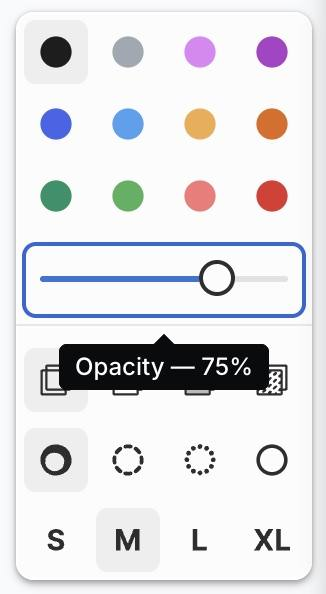
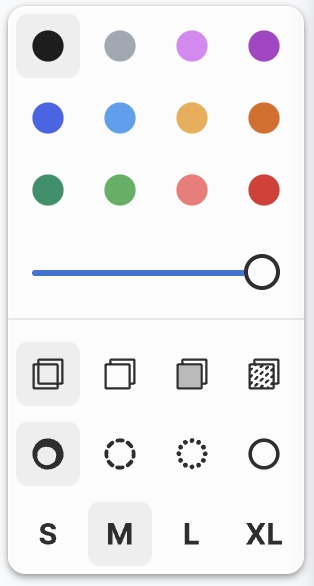
Swap tldraw style panel image (no tooltip) on Steve's page and the homepage board

diff --git a/index.html b/index.html
@@ -35,7 +35,7 @@
   </header>
   <div id="page"></div>
   <div class="peek" id="peek" aria-hidden="true"></div>
-  <script>window.CC={"interviews": [{"url": "interviews/steve-ruiz/", "slug": "steve-ruiz", "name": "Steve Ruiz", "headline": "The painter who built the canvas", "role": "Founder", "company": "tldraw", "date": "Oct 2026", "quote": "No one cares about your paintings. It’s up to you to share your work."}, {"url": "interviews/mihika-kapoor/", "slug": "mihika-kapoor", "name": "Mihika Kapoor", "headline": "Simulation is human", "role": "Head of Product", "company": "Simile", "date": "Oct 2026", "quote": "You can distill pretty much any company into: figure out what to do, then do the thing."}, {"url": "interviews/adam-ho/", "slug": "adam-ho", "name": "Adam Ho", "headline": "Design as discography", "role": "Head of Design", "company": "fal", "date": "Oct 2026", "quote": "I treat the projects I do like a discography, the way an artist has albums on Spotify."}, {"url": "interviews/liz-dorman/", "slug": "liz-dorman", "name": "Liz Dorman", "headline": "Couture computing in hardware", "role": "Co-founder", "company": "Era", "date": "Oct 2026", "quote": "We want main character energy back."}, {"url": "interviews/colin-daymond-hanna/", "slug": "colin-daymond-hanna", "name": "Colin Daymond Hanna", "headline": "Creating light in the darkness", "role": "Co-founder", "company": "Earendil", "date": "Sep 2026", "quote": "Black and white focuses the mind on elements even more fundamental than what we see with our own eye."}, {"url": "interviews/noah-kerner/", "slug": "noah-kerner", "name": "Noah Kerner", "headline": "We all dream", "role": "CEO", "company": "Acorns", "date": "Aug 2026", "quote": "Nothing profound was built off of research in the classic sense."}, {"url": "interviews/diego-segura/", "slug": "diego-segura", "name": "Diego Segura", "headline": "Narrative before design", "role": "Founder, Creative Director", "company": "Family Office", "date": "Jul 2026", "quote": "Design is most valuable in spaces designers don't usually care to work in. The unsexy stuff."}, {"url": "interviews/quinten-farmer/", "slug": "quinten-farmer", "name": "Quinten Farmer", "headline": "Why a little alien is a good friend", "role": "Co-founder & CEO", "company": "Tolan", "date": "Jul 2026", "quote": "Today we call it a second self."}, {"url": "interviews/paul-jun/", "slug": "paul-jun", "name": "Paul Jun", "headline": "Form follows fantasy", "role": "Creative Director, Brand", "company": "Ramp", "date": "Jul 2026", "quote": "The real opportunity is when function and fantasy share a room."}, {"url": "interviews/ben-and-zubin-raindrop/", "slug": "ben-and-zubin-raindrop", "name": "Ben Hylak and Zubin Koticha", "headline": "Tsunami of capabilities", "role": "Co-founders", "company": "Raindrop", "date": "Jun 2026", "quote": "The most core part of taste is the nouns we have."}, {"url": "interviews/nir-zicherman/", "slug": "nir-zicherman", "name": "Nir Zicherman", "headline": "Building the generalized learning platform", "role": "Co-founder & CEO", "company": "Oboe", "date": "Jun 2026", "quote": "Not one of the platforms they regularly use was built to teach."}, {"url": "interviews/stephen-haney/", "slug": "stephen-haney", "name": "Stephen Haney", "headline": "Care that compounds", "role": "Founder & CEO", "company": "Paper", "date": "Jun 2026", "quote": "In design tools, the best product often wins."}, {"url": "interviews/dylan-babbs/", "slug": "dylan-babbs", "name": "Dylan Babbs", "headline": "Designing for trust in new categories", "role": "Co-founder", "company": "Profound", "date": "Jun 2026", "quote": "At the end of the day a company is just a group of people in a room."}]};window.PORTS={"steve-ruiz": "interviews/images/steve-ruiz.jpg?v=3", "mihika-kapoor": "interviews/images/mihika-kapoor.jpg", "adam-ho": "interviews/images/adam-ho.jpg", "liz-dorman": "interviews/images/liz-dorman.jpg", "colin-daymond-hanna": "interviews/images/colin-daymond-hanna.jpg", "noah-kerner": "interviews/images/noah-kerner.jpg", "diego-segura": "interviews/images/diego-segura.jpg", "quinten-farmer": "interviews/images/quinten-farmer.jpg", "paul-jun": "interviews/images/paul-jun.jpg", "ben-and-zubin-raindrop": "interviews/images/ben-hylak.jpg", "nir-zicherman": "interviews/images/nir-zicherman.jpg", "stephen-haney": "interviews/images/stephen-haney.jpg", "dylan-babbs": "interviews/images/dylan-babbs.jpg"};window.IMGS=[{"n": "18", "w": 360, "h": 640, "u": "./assets/board/18.jpg"}, {"n": "19", "w": 640, "h": 640, "u": "./assets/board/19.jpg"}, {"n": "m-sugimoto", "w": 640, "h": 512, "u": "./assets/board/m-sugimoto.jpg"}, {"n": "21", "w": 464, "h": 640, "u": "./assets/board/21.jpg"}, {"n": "m-martens", "w": 640, "h": 426, "u": "./assets/board/m-martens.jpg"}, {"n": "22", "w": 447, "h": 640, "u": "./assets/board/22.jpg"}, {"n": "23", "w": 498, "h": 640, "u": "./assets/board/23.jpg"}, {"n": "m-archigram", "w": 320, "h": 640, "u": "./assets/board/m-archigram.jpg"}, {"n": "24", "w": 621, "h": 640, "u": "./assets/board/24.jpg"}, {"n": "25", "w": 640, "h": 640, "u": "./assets/board/25.jpg"}, {"n": "m-hockney", "w": 640, "h": 624, "u": "./assets/board/m-hockney.jpg"}, {"n": "s-globs", "w": 640, "h": 455, "u": "./assets/board/s-globs.jpg"}, {"n": "28", "w": 452, "h": 640, "u": "./assets/board/28.jpg"}, {"n": "m-pnw", "w": 427, "h": 640, "u": "./assets/board/m-pnw.jpg"}, {"n": "29", "w": 500, "h": 400, "u": "./assets/board/29.jpg"}, {"n": "31", "w": 296, "h": 640, "u": "./assets/board/31.jpg"}, {"n": "m-crayon", "w": 476, "h": 640, "u": "./assets/board/m-crayon.jpg"}, {"n": "33", "w": 526, "h": 640, "u": "./assets/board/33.jpg"}, {"n": "34", "w": 512, "h": 640, "u": "./assets/board/34.jpg"}, {"n": "m-rand", "w": 424, "h": 640, "u": "./assets/board/m-rand.jpg"}, {"n": "s-tldraw-offline", "w": 640, "h": 413, "u": "./assets/board/s-tldraw-offline.jpg"}, {"n": "38", "w": 480, "h": 640, "u": "./assets/board/38.jpg"}, {"n": "m-guitar", "w": 430, "h": 640, "u": "./assets/board/m-guitar.jpg"}, {"n": "40", "w": 640, "h": 416, "u": "./assets/board/40.jpg"}, {"n": "41", "w": 640, "h": 368, "u": "./assets/board/41.jpg"}, {"n": "m-piano", "w": 427, "h": 640, "u": "./assets/board/m-piano.jpg"}, {"n": "s-style-panel", "w": 326, "h": 594, "u": "./assets/board/s-style-panel.jpg"}, {"n": "43", "w": 640, "h": 329, "u": "./assets/board/43.jpg"}, {"n": "m-backstage", "w": 640, "h": 640, "u": "./assets/board/m-backstage.jpg"}, {"n": "44", "w": 640, "h": 480, "u": "./assets/board/44.jpg"}, {"n": "45", "w": 640, "h": 434, "u": "./assets/board/45.jpg"}, {"n": "m-wave", "w": 640, "h": 438, "u": "./assets/board/m-wave.jpg"}, {"n": "47", "w": 640, "h": 534, "u": "./assets/board/47.jpg"}, {"n": "48", "w": 427, "h": 640, "u": "./assets/board/48.jpg"}, {"n": "m-subway", "w": 640, "h": 640, "u": "./assets/board/m-subway.jpg"}, {"n": "s-roman-road", "w": 438, "h": 640, "u": "./assets/board/s-roman-road.jpg"}, {"n": "50", "w": 480, "h": 640, "u": "./assets/board/50.jpg"}, {"n": "m-orangerie", "w": 480, "h": 640, "u": "./assets/board/m-orangerie.jpg"}, {"n": "51", "w": 640, "h": 399, "u": "./assets/board/51.jpg"}, {"n": "52", "w": 640, "h": 549, "u": "./assets/board/52.jpg"}, {"n": "m-turntable", "w": 513, "h": 640, "u": "./assets/board/m-turntable.jpg"}, {"n": "53", "w": 480, "h": 640, "u": "./assets/board/53.jpg"}, {"n": "54", "w": 432, "h": 640, "u": "./assets/board/54.jpg"}, {"n": "a-idea", "w": 640, "h": 426, "u": "./assets/board/a-idea.jpg"}, {"n": "s-negril-slides", "w": 438, "h": 640, "u": "./assets/board/s-negril-slides.jpg"}, {"n": "61", "w": 640, "h": 640, "u": "./assets/board/61.jpg"}, {"n": "a-gerstner", "w": 640, "h": 426, "u": "./assets/board/a-gerstner.jpg"}, {"n": "62", "w": 640, "h": 359, "u": "./assets/board/62.jpg"}, {"n": "s-money-tree", "w": 521, "h": 640, "u": "./assets/board/s-money-tree.jpg"}, {"n": "a-taxday", "w": 640, "h": 638, "u": "./assets/board/a-taxday.jpg"}, {"n": "64", "w": 458, "h": 640, "u": "./assets/board/64.jpg"}, {"n": "65", "w": 640, "h": 640, "u": "./assets/board/65.jpg"}, {"n": "a-stormking", "w": 640, "h": 554, "u": "./assets/board/a-stormking.jpg"}, {"n": "66", "w": 512, "h": 640, "u": "./assets/board/66.jpg"}, {"n": "71", "w": 297, "h": 355, "u": "./assets/board/71.jpg"}, {"n": "a-alice", "w": 518, "h": 640, "u": "./assets/board/a-alice.jpg"}, {"n": "72", "w": 640, "h": 636, "u": "./assets/board/72.jpg"}, {"n": "s-oh-god-oh-no", "w": 481, "h": 640, "u": "./assets/board/s-oh-god-oh-no.jpg"}, {"n": "a-klara", "w": 410, "h": 640, "u": "./assets/board/a-klara.jpg"}, {"n": "73", "w": 487, "h": 640, "u": "./assets/board/73.jpg"}];window.REFS={"18": {"slug": "noah-kerner", "q": "They knew the music they were going to play throughout the night, but I would come with ten crates of records and not know where I was going.", "cap": false}, "19": {"slug": "adam-ho", "q": "On brand design, we released this thing called gen media CLI (genmedia.sh).", "cap": false}, "21": {"slug": "quinten-farmer", "q": "Pixar and Disney - they’ve built characters that are appropriate for all ages and have great stories behind them.", "cap": false}, "22": {"slug": "paul-jun", "q": "Brand designers kept working in symbols, stories, typography, culture, and feeling.", "cap": false}, "23": {"slug": "diego-segura", "q": "A few weeks after my 18th birthday I flew to New York for the first time to visit Pentagram, Sagmeister & Walsh, and COLLINS in the same week.", "cap": false, "frag": "flew to New York for the first time"}, "24": {"slug": "steve-ruiz", "q": "I was a painter. Mostly beautiful landscapes…", "cap": false}, "25": {"slug": "liz-dorman", "q": "Liz Dorman owns more than a hundred old phones. There is a 1970s Bell telephone, a set of Barbie phones from the ’80s, Siemens handsets released in seasonal collections like clothing, and her prized piece: a hot pink Motorola Razr.", "cap": true, "frag": "There is a 1970s Bell telephone"}, "28": {"slug": "noah-kerner", "q": "I would spend a couple hours with Michael Lang, who started Woodstock, or Ahmet Ertegun, who founded Atlantic Records, or Richard Meier, the architect, or Tom Ford.", "cap": false}, "29": {"slug": "noah-kerner", "q": "My wife and I started an art organization called Give Kids Art, and the message is “Create Fearlessly.” The founding ethos is based on another quote, this one from Picasso: “Every child is born an artist.", "cap": false}, "31": {"slug": "liz-dorman", "q": "I really love Lego. It’s an incredible brand that enables so much creativity, at all scales.", "cap": false}, "33": {"slug": "liz-dorman", "q": "I think we will see dozens of computing device companies, all happily co-existing.", "cap": false}, "34": {"slug": "liz-dorman", "q": "I think we will see dozens of computing device companies, all happily co-existing.", "cap": false}, "38": {"slug": "colin-daymond-hanna", "q": "Ramiz has done a lot with the Tetris animation. We get millions of hits to that site per week, and at one point the animation was taking too long, so I took time to re-optimize it.", "cap": false}, "40": {"slug": "quinten-farmer", "q": "The third piece, around the same exploration time, was that we lucked into getting to know a really talented creative director, Lucas Zanotto, through my friend, Zach Klein.", "cap": false}, "41": {"slug": "liz-dorman", "q": "I care so much about Era creating spaces for people from all backgrounds to make this future world of computing together.", "cap": false}, "43": {"slug": "adam-ho", "q": "Somewhat unique to fal, we have a function called creative engineers, who create workflows for generative imaging.", "cap": false}, "44": {"slug": "diego-segura", "q": "If I could give any founder one piece of advice, it would be: write the thing in extreme detail first, then go talk to the designers.", "cap": false}, "45": {"slug": "quinten-farmer", "q": "Today we call it a second self. It’s personal AI, a little character designed to be an extension of you.", "cap": false}, "47": {"slug": "nir-zicherman", "q": "And yet those billions of people online clearly have things they’re intrinsically motivated to learn, because they keep going down rabbit holes.", "cap": false}, "48": {"slug": "paul-jun", "q": "At scale, every company desires the work to perform like a symphony. Eighty musicians can play different notes and still create one piece because they share a score.", "cap": false}, "50": {"slug": "adam-ho", "q": "GenMedia Conference tote, made at fal design lab with Hyunjung Lee. Nearly every element was made from scratch: custom-dyed light sage nylon, a custom 8mm cord, a fal logo silver carabiner.", "cap": true, "frag": "custom-dyed light sage nylon"}, "51": {"slug": "liz-dorman", "q": "Architecture is such a perfect metaphor for computing. We inhabit it every day, it influences how we think and connect, and it responds very quickly to the technological advancement enabling it.", "cap": false}, "52": {"slug": "adam-ho", "q": "There’s Karel Martens, a Dutch graphic designer. There’s Wang Zhihong, a brilliant Taiwanese graphic designer.", "cap": false}, "53": {"slug": "adam-ho", "q": "GenMedia Conference tote, made at fal design lab with Hyunjung Lee. Nearly every element was made from scratch: custom-dyed light sage nylon, a custom 8mm cord, a fal logo silver carabiner.", "cap": true, "frag": "custom-dyed light sage nylon"}, "54": {"slug": "liz-dorman", "q": "I particularly love Archigram and the Metabolists, avant-garde groups in the UK and Japan that imagined buildings as organisms: modular buildings that change and rotate based on the needs of the inhabitants, so you’d come back and the building would look different.", "cap": false}, "61": {"slug": "liz-dorman", "q": "Liz Dorman owns more than a hundred old phones. There is a 1970s Bell telephone, a set of Barbie phones from the ’80s, Siemens handsets released in seasonal collections like clothing, and her prized piece: a hot pink Motorola Razr.", "cap": true, "frag": "There is a 1970s Bell telephone"}, "62": {"slug": "mihika-kapoor", "q": "I also love large scale, so the Monet paintings in the Musée de l’Orangerie, which make you feel like a dot.", "cap": false}, "64": {"slug": "adam-ho", "q": "There’s a painter named Stanley Whitney. He’s a master of colors.", "cap": false}, "65": {"slug": "adam-ho", "q": "There’s a painter named Stanley Whitney. He’s a master of colors.", "cap": false}, "66": {"slug": "adam-ho", "q": "There’s a painter named Stanley Whitney. He’s a master of colors.", "cap": false}, "71": {"slug": "mihika-kapoor", "q": "So now we are hiring brand designers, motion animators, storytellers, pixel artists, you name it.", "cap": false}, "72": {"slug": "mihika-kapoor", "q": "So now we are hiring brand designers, motion animators, storytellers, pixel artists, you name it.", "cap": false}, "73": {"slug": "paul-jun", "q": "It’s like a video game finally getting a patch that everyone has been waiting for.", "cap": false}, "s-globs": {"slug": "steve-ruiz", "q": "A year of posting works-in-progress on Twitter led to a design tool I built named globs and an algorithm for freehand ink.", "cap": false}, "s-tldraw-offline": {"slug": "steve-ruiz", "q": "Then it turned into, let’s just build a canvas. Something like Figma’s canvas, but open source and on the web.", "cap": false}, "s-style-panel": {"slug": "steve-ruiz", "q": "What does good ink feel like? What do good arrows feel like?", "cap": false}, "s-roman-road": {"slug": "steve-ruiz", "q": "I was a painter. Mostly beautiful landscapes…", "cap": false}, "s-negril-slides": {"slug": "steve-ruiz", "q": "No one cares about your paintings. No one’s knocking on your door to ask about what you’re making.", "cap": false}, "s-money-tree": {"slug": "steve-ruiz", "q": "It’s up to you to share your work. Every serious artist has a marketing function, even if they’d never call it that.", "cap": false}, "s-oh-god-oh-no": {"slug": "steve-ruiz", "q": "You post in-progress work, a little detail of the thing. That’s a habit I brought into design, and then programming.", "cap": false}, "m-sugimoto": {"slug": "colin-daymond-hanna", "q": "The first landing page of our website was a black and white photograph of the ocean with a long horizon, inspired by the photographer Sugimoto.", "cap": false}, "m-martens": {"slug": "adam-ho", "q": "A lot of people see my work and say, “Your work reminds me of Karel Martens.” And it’s intentional.", "cap": false, "frag": "Your work reminds me of Karel Martens"}, "m-archigram": {"slug": "liz-dorman", "q": "Archigram explored control (forced behavior by unchangeable buildings) vs. choice (spaces made of modules that adapt to the needs of the inhabitants). Sounds familiar in this new Era?", "cap": true, "frag": "Archigram explored control"}, "m-hockney": {"slug": "mihika-kapoor", "q": "The artists I love most use excessive color. David Hockney, Matisse.", "cap": false}, "m-pnw": {"slug": "quinten-farmer", "q": "The Tolan lore is essentially built around the Pacific Northwest, an archipelago of small islands with a temperate climate.", "cap": false}, "m-crayon": {"slug": "noah-kerner", "q": "“Every child is born an artist. The problem is how to remain one as we grow up.”", "cap": false, "frag": "Every child is born an artist"}, "m-rand": {"slug": "paul-jun", "q": "In 1941, Bill Bernbach, a copywriter, met Paul Rand, an art director and designer, at the Weintraub agency in Manhattan.", "cap": false}, "m-guitar": {"slug": "stephen-haney", "q": "I play guitar, and I just found this hand maker, Hansen Guitars in Denmark.", "cap": false}, "m-piano": {"slug": "nir-zicherman", "q": "I grew up playing, especially piano.", "cap": false}, "m-backstage": {"slug": "diego-segura", "q": "Every week I’d be handed a stack of books across fashion and design to read and learn from.", "cap": false}, "m-wave": {"slug": "ben-and-zubin-raindrop", "q": "Tsunami of capabilities", "cap": true, "frag": "Tsunami of capabilities"}, "m-subway": {"slug": "dylan-babbs", "q": "Another interesting one, our subway ads — the imagery is all AI generated.", "cap": false, "frag": "our subway ads"}, "m-orangerie": {"slug": "mihika-kapoor", "q": "I also love large scale, so the Monet paintings in the Musée de l’Orangerie, which make you feel like a dot.", "cap": false}, "m-turntable": {"slug": "noah-kerner", "q": "Noah Kerner is a New Yorker who started Give Kids Art, an art nonprofit for underserved children, used to DJ for celebrities like Jennifer Lopez.", "cap": true, "frag": "used to DJ for celebrities"}, "a-idea": {"slug": "adam-ho", "q": "I have eight of his books behind me.", "cap": false}, "a-gerstner": {"slug": "adam-ho", "q": "And Karl Gerstner, a Swiss design practitioner and an early pioneer of systematic design.", "cap": false}, "a-taxday": {"slug": "diego-segura", "q": "Terms-Eccles, his platform covering capital and culture, which also hosts an annual Tax Day party.", "cap": true, "frag": "which also hosts an annual Tax Day party"}, "a-stormking": {"slug": "diego-segura", "q": "COLLINS crew at Storm King, 2019", "cap": true, "frag": "COLLINS crew at Storm King"}, "a-alice": {"slug": "mihika-kapoor", "q": "And I love absurdism, so Alice in Wonderland has been very influential.", "cap": false}, "a-klara": {"slug": "quinten-farmer", "q": "One favorite is Klara and the Sun, which I highly recommend.", "cap": false, "frag": "One favorite is Klara and the Sun"}};</script>
+  <script>window.CC={"interviews": [{"url": "interviews/steve-ruiz/", "slug": "steve-ruiz", "name": "Steve Ruiz", "headline": "The painter who built the canvas", "role": "Founder", "company": "tldraw", "date": "Oct 2026", "quote": "No one cares about your paintings. It’s up to you to share your work."}, {"url": "interviews/mihika-kapoor/", "slug": "mihika-kapoor", "name": "Mihika Kapoor", "headline": "Simulation is human", "role": "Head of Product", "company": "Simile", "date": "Oct 2026", "quote": "You can distill pretty much any company into: figure out what to do, then do the thing."}, {"url": "interviews/adam-ho/", "slug": "adam-ho", "name": "Adam Ho", "headline": "Design as discography", "role": "Head of Design", "company": "fal", "date": "Oct 2026", "quote": "I treat the projects I do like a discography, the way an artist has albums on Spotify."}, {"url": "interviews/liz-dorman/", "slug": "liz-dorman", "name": "Liz Dorman", "headline": "Couture computing in hardware", "role": "Co-founder", "company": "Era", "date": "Oct 2026", "quote": "We want main character energy back."}, {"url": "interviews/colin-daymond-hanna/", "slug": "colin-daymond-hanna", "name": "Colin Daymond Hanna", "headline": "Creating light in the darkness", "role": "Co-founder", "company": "Earendil", "date": "Sep 2026", "quote": "Black and white focuses the mind on elements even more fundamental than what we see with our own eye."}, {"url": "interviews/noah-kerner/", "slug": "noah-kerner", "name": "Noah Kerner", "headline": "We all dream", "role": "CEO", "company": "Acorns", "date": "Aug 2026", "quote": "Nothing profound was built off of research in the classic sense."}, {"url": "interviews/diego-segura/", "slug": "diego-segura", "name": "Diego Segura", "headline": "Narrative before design", "role": "Founder, Creative Director", "company": "Family Office", "date": "Jul 2026", "quote": "Design is most valuable in spaces designers don't usually care to work in. The unsexy stuff."}, {"url": "interviews/quinten-farmer/", "slug": "quinten-farmer", "name": "Quinten Farmer", "headline": "Why a little alien is a good friend", "role": "Co-founder & CEO", "company": "Tolan", "date": "Jul 2026", "quote": "Today we call it a second self."}, {"url": "interviews/paul-jun/", "slug": "paul-jun", "name": "Paul Jun", "headline": "Form follows fantasy", "role": "Creative Director, Brand", "company": "Ramp", "date": "Jul 2026", "quote": "The real opportunity is when function and fantasy share a room."}, {"url": "interviews/ben-and-zubin-raindrop/", "slug": "ben-and-zubin-raindrop", "name": "Ben Hylak and Zubin Koticha", "headline": "Tsunami of capabilities", "role": "Co-founders", "company": "Raindrop", "date": "Jun 2026", "quote": "The most core part of taste is the nouns we have."}, {"url": "interviews/nir-zicherman/", "slug": "nir-zicherman", "name": "Nir Zicherman", "headline": "Building the generalized learning platform", "role": "Co-founder & CEO", "company": "Oboe", "date": "Jun 2026", "quote": "Not one of the platforms they regularly use was built to teach."}, {"url": "interviews/stephen-haney/", "slug": "stephen-haney", "name": "Stephen Haney", "headline": "Care that compounds", "role": "Founder & CEO", "company": "Paper", "date": "Jun 2026", "quote": "In design tools, the best product often wins."}, {"url": "interviews/dylan-babbs/", "slug": "dylan-babbs", "name": "Dylan Babbs", "headline": "Designing for trust in new categories", "role": "Co-founder", "company": "Profound", "date": "Jun 2026", "quote": "At the end of the day a company is just a group of people in a room."}]};window.PORTS={"steve-ruiz": "interviews/images/steve-ruiz.jpg?v=3", "mihika-kapoor": "interviews/images/mihika-kapoor.jpg", "adam-ho": "interviews/images/adam-ho.jpg", "liz-dorman": "interviews/images/liz-dorman.jpg", "colin-daymond-hanna": "interviews/images/colin-daymond-hanna.jpg", "noah-kerner": "interviews/images/noah-kerner.jpg", "diego-segura": "interviews/images/diego-segura.jpg", "quinten-farmer": "interviews/images/quinten-farmer.jpg", "paul-jun": "interviews/images/paul-jun.jpg", "ben-and-zubin-raindrop": "interviews/images/ben-hylak.jpg", "nir-zicherman": "interviews/images/nir-zicherman.jpg", "stephen-haney": "interviews/images/stephen-haney.jpg", "dylan-babbs": "interviews/images/dylan-babbs.jpg"};window.IMGS=[{"n": "18", "w": 360, "h": 640, "u": "./assets/board/18.jpg"}, {"n": "19", "w": 640, "h": 640, "u": "./assets/board/19.jpg"}, {"n": "m-sugimoto", "w": 640, "h": 512, "u": "./assets/board/m-sugimoto.jpg"}, {"n": "21", "w": 464, "h": 640, "u": "./assets/board/21.jpg"}, {"n": "m-martens", "w": 640, "h": 426, "u": "./assets/board/m-martens.jpg"}, {"n": "22", "w": 447, "h": 640, "u": "./assets/board/22.jpg"}, {"n": "23", "w": 498, "h": 640, "u": "./assets/board/23.jpg"}, {"n": "m-archigram", "w": 320, "h": 640, "u": "./assets/board/m-archigram.jpg"}, {"n": "24", "w": 621, "h": 640, "u": "./assets/board/24.jpg"}, {"n": "25", "w": 640, "h": 640, "u": "./assets/board/25.jpg"}, {"n": "m-hockney", "w": 640, "h": 624, "u": "./assets/board/m-hockney.jpg"}, {"n": "s-globs", "w": 640, "h": 455, "u": "./assets/board/s-globs.jpg"}, {"n": "28", "w": 452, "h": 640, "u": "./assets/board/28.jpg"}, {"n": "m-pnw", "w": 427, "h": 640, "u": "./assets/board/m-pnw.jpg"}, {"n": "29", "w": 500, "h": 400, "u": "./assets/board/29.jpg"}, {"n": "31", "w": 296, "h": 640, "u": "./assets/board/31.jpg"}, {"n": "m-crayon", "w": 476, "h": 640, "u": "./assets/board/m-crayon.jpg"}, {"n": "33", "w": 526, "h": 640, "u": "./assets/board/33.jpg"}, {"n": "34", "w": 512, "h": 640, "u": "./assets/board/34.jpg"}, {"n": "m-rand", "w": 424, "h": 640, "u": "./assets/board/m-rand.jpg"}, {"n": "s-tldraw-offline", "w": 640, "h": 413, "u": "./assets/board/s-tldraw-offline.jpg"}, {"n": "38", "w": 480, "h": 640, "u": "./assets/board/38.jpg"}, {"n": "m-guitar", "w": 430, "h": 640, "u": "./assets/board/m-guitar.jpg"}, {"n": "40", "w": 640, "h": 416, "u": "./assets/board/40.jpg"}, {"n": "41", "w": 640, "h": 368, "u": "./assets/board/41.jpg"}, {"n": "m-piano", "w": 427, "h": 640, "u": "./assets/board/m-piano.jpg"}, {"n": "s-style-panel", "w": 314, "h": 586, "u": "./assets/board/s-style-panel.jpg?v=2"}, {"n": "43", "w": 640, "h": 329, "u": "./assets/board/43.jpg"}, {"n": "m-backstage", "w": 640, "h": 640, "u": "./assets/board/m-backstage.jpg"}, {"n": "44", "w": 640, "h": 480, "u": "./assets/board/44.jpg"}, {"n": "45", "w": 640, "h": 434, "u": "./assets/board/45.jpg"}, {"n": "m-wave", "w": 640, "h": 438, "u": "./assets/board/m-wave.jpg"}, {"n": "47", "w": 640, "h": 534, "u": "./assets/board/47.jpg"}, {"n": "48", "w": 427, "h": 640, "u": "./assets/board/48.jpg"}, {"n": "m-subway", "w": 640, "h": 640, "u": "./assets/board/m-subway.jpg"}, {"n": "s-roman-road", "w": 438, "h": 640, "u": "./assets/board/s-roman-road.jpg"}, {"n": "50", "w": 480, "h": 640, "u": "./assets/board/50.jpg"}, {"n": "m-orangerie", "w": 480, "h": 640, "u": "./assets/board/m-orangerie.jpg"}, {"n": "51", "w": 640, "h": 399, "u": "./assets/board/51.jpg"}, {"n": "52", "w": 640, "h": 549, "u": "./assets/board/52.jpg"}, {"n": "m-turntable", "w": 513, "h": 640, "u": "./assets/board/m-turntable.jpg"}, {"n": "53", "w": 480, "h": 640, "u": "./assets/board/53.jpg"}, {"n": "54", "w": 432, "h": 640, "u": "./assets/board/54.jpg"}, {"n": "a-idea", "w": 640, "h": 426, "u": "./assets/board/a-idea.jpg"}, {"n": "s-negril-slides", "w": 438, "h": 640, "u": "./assets/board/s-negril-slides.jpg"}, {"n": "61", "w": 640, "h": 640, "u": "./assets/board/61.jpg"}, {"n": "a-gerstner", "w": 640, "h": 426, "u": "./assets/board/a-gerstner.jpg"}, {"n": "62", "w": 640, "h": 359, "u": "./assets/board/62.jpg"}, {"n": "s-money-tree", "w": 521, "h": 640, "u": "./assets/board/s-money-tree.jpg"}, {"n": "a-taxday", "w": 640, "h": 638, "u": "./assets/board/a-taxday.jpg"}, {"n": "64", "w": 458, "h": 640, "u": "./assets/board/64.jpg"}, {"n": "65", "w": 640, "h": 640, "u": "./assets/board/65.jpg"}, {"n": "a-stormking", "w": 640, "h": 554, "u": "./assets/board/a-stormking.jpg"}, {"n": "66", "w": 512, "h": 640, "u": "./assets/board/66.jpg"}, {"n": "71", "w": 297, "h": 355, "u": "./assets/board/71.jpg"}, {"n": "a-alice", "w": 518, "h": 640, "u": "./assets/board/a-alice.jpg"}, {"n": "72", "w": 640, "h": 636, "u": "./assets/board/72.jpg"}, {"n": "s-oh-god-oh-no", "w": 481, "h": 640, "u": "./assets/board/s-oh-god-oh-no.jpg"}, {"n": "a-klara", "w": 410, "h": 640, "u": "./assets/board/a-klara.jpg"}, {"n": "73", "w": 487, "h": 640, "u": "./assets/board/73.jpg"}];window.REFS={"18": {"slug": "noah-kerner", "q": "They knew the music they were going to play throughout the night, but I would come with ten crates of records and not know where I was going.", "cap": false}, "19": {"slug": "adam-ho", "q": "On brand design, we released this thing called gen media CLI (genmedia.sh).", "cap": false}, "21": {"slug": "quinten-farmer", "q": "Pixar and Disney - they’ve built characters that are appropriate for all ages and have great stories behind them.", "cap": false}, "22": {"slug": "paul-jun", "q": "Brand designers kept working in symbols, stories, typography, culture, and feeling.", "cap": false}, "23": {"slug": "diego-segura", "q": "A few weeks after my 18th birthday I flew to New York for the first time to visit Pentagram, Sagmeister & Walsh, and COLLINS in the same week.", "cap": false, "frag": "flew to New York for the first time"}, "24": {"slug": "steve-ruiz", "q": "I was a painter. Mostly beautiful landscapes…", "cap": false}, "25": {"slug": "liz-dorman", "q": "Liz Dorman owns more than a hundred old phones. There is a 1970s Bell telephone, a set of Barbie phones from the ’80s, Siemens handsets released in seasonal collections like clothing, and her prized piece: a hot pink Motorola Razr.", "cap": true, "frag": "There is a 1970s Bell telephone"}, "28": {"slug": "noah-kerner", "q": "I would spend a couple hours with Michael Lang, who started Woodstock, or Ahmet Ertegun, who founded Atlantic Records, or Richard Meier, the architect, or Tom Ford.", "cap": false}, "29": {"slug": "noah-kerner", "q": "My wife and I started an art organization called Give Kids Art, and the message is “Create Fearlessly.” The founding ethos is based on another quote, this one from Picasso: “Every child is born an artist.", "cap": false}, "31": {"slug": "liz-dorman", "q": "I really love Lego. It’s an incredible brand that enables so much creativity, at all scales.", "cap": false}, "33": {"slug": "liz-dorman", "q": "I think we will see dozens of computing device companies, all happily co-existing.", "cap": false}, "34": {"slug": "liz-dorman", "q": "I think we will see dozens of computing device companies, all happily co-existing.", "cap": false}, "38": {"slug": "colin-daymond-hanna", "q": "Ramiz has done a lot with the Tetris animation. We get millions of hits to that site per week, and at one point the animation was taking too long, so I took time to re-optimize it.", "cap": false}, "40": {"slug": "quinten-farmer", "q": "The third piece, around the same exploration time, was that we lucked into getting to know a really talented creative director, Lucas Zanotto, through my friend, Zach Klein.", "cap": false}, "41": {"slug": "liz-dorman", "q": "I care so much about Era creating spaces for people from all backgrounds to make this future world of computing together.", "cap": false}, "43": {"slug": "adam-ho", "q": "Somewhat unique to fal, we have a function called creative engineers, who create workflows for generative imaging.", "cap": false}, "44": {"slug": "diego-segura", "q": "If I could give any founder one piece of advice, it would be: write the thing in extreme detail first, then go talk to the designers.", "cap": false}, "45": {"slug": "quinten-farmer", "q": "Today we call it a second self. It’s personal AI, a little character designed to be an extension of you.", "cap": false}, "47": {"slug": "nir-zicherman", "q": "And yet those billions of people online clearly have things they’re intrinsically motivated to learn, because they keep going down rabbit holes.", "cap": false}, "48": {"slug": "paul-jun", "q": "At scale, every company desires the work to perform like a symphony. Eighty musicians can play different notes and still create one piece because they share a score.", "cap": false}, "50": {"slug": "adam-ho", "q": "GenMedia Conference tote, made at fal design lab with Hyunjung Lee. Nearly every element was made from scratch: custom-dyed light sage nylon, a custom 8mm cord, a fal logo silver carabiner.", "cap": true, "frag": "custom-dyed light sage nylon"}, "51": {"slug": "liz-dorman", "q": "Architecture is such a perfect metaphor for computing. We inhabit it every day, it influences how we think and connect, and it responds very quickly to the technological advancement enabling it.", "cap": false}, "52": {"slug": "adam-ho", "q": "There’s Karel Martens, a Dutch graphic designer. There’s Wang Zhihong, a brilliant Taiwanese graphic designer.", "cap": false}, "53": {"slug": "adam-ho", "q": "GenMedia Conference tote, made at fal design lab with Hyunjung Lee. Nearly every element was made from scratch: custom-dyed light sage nylon, a custom 8mm cord, a fal logo silver carabiner.", "cap": true, "frag": "custom-dyed light sage nylon"}, "54": {"slug": "liz-dorman", "q": "I particularly love Archigram and the Metabolists, avant-garde groups in the UK and Japan that imagined buildings as organisms: modular buildings that change and rotate based on the needs of the inhabitants, so you’d come back and the building would look different.", "cap": false}, "61": {"slug": "liz-dorman", "q": "Liz Dorman owns more than a hundred old phones. There is a 1970s Bell telephone, a set of Barbie phones from the ’80s, Siemens handsets released in seasonal collections like clothing, and her prized piece: a hot pink Motorola Razr.", "cap": true, "frag": "There is a 1970s Bell telephone"}, "62": {"slug": "mihika-kapoor", "q": "I also love large scale, so the Monet paintings in the Musée de l’Orangerie, which make you feel like a dot.", "cap": false}, "64": {"slug": "adam-ho", "q": "There’s a painter named Stanley Whitney. He’s a master of colors.", "cap": false}, "65": {"slug": "adam-ho", "q": "There’s a painter named Stanley Whitney. He’s a master of colors.", "cap": false}, "66": {"slug": "adam-ho", "q": "There’s a painter named Stanley Whitney. He’s a master of colors.", "cap": false}, "71": {"slug": "mihika-kapoor", "q": "So now we are hiring brand designers, motion animators, storytellers, pixel artists, you name it.", "cap": false}, "72": {"slug": "mihika-kapoor", "q": "So now we are hiring brand designers, motion animators, storytellers, pixel artists, you name it.", "cap": false}, "73": {"slug": "paul-jun", "q": "It’s like a video game finally getting a patch that everyone has been waiting for.", "cap": false}, "s-globs": {"slug": "steve-ruiz", "q": "A year of posting works-in-progress on Twitter led to a design tool I built named globs and an algorithm for freehand ink.", "cap": false}, "s-tldraw-offline": {"slug": "steve-ruiz", "q": "Then it turned into, let’s just build a canvas. Something like Figma’s canvas, but open source and on the web.", "cap": false}, "s-style-panel": {"slug": "steve-ruiz", "q": "What does good ink feel like? What do good arrows feel like?", "cap": false}, "s-roman-road": {"slug": "steve-ruiz", "q": "I was a painter. Mostly beautiful landscapes…", "cap": false}, "s-negril-slides": {"slug": "steve-ruiz", "q": "No one cares about your paintings. No one’s knocking on your door to ask about what you’re making.", "cap": false}, "s-money-tree": {"slug": "steve-ruiz", "q": "It’s up to you to share your work. Every serious artist has a marketing function, even if they’d never call it that.", "cap": false}, "s-oh-god-oh-no": {"slug": "steve-ruiz", "q": "You post in-progress work, a little detail of the thing. That’s a habit I brought into design, and then programming.", "cap": false}, "m-sugimoto": {"slug": "colin-daymond-hanna", "q": "The first landing page of our website was a black and white photograph of the ocean with a long horizon, inspired by the photographer Sugimoto.", "cap": false}, "m-martens": {"slug": "adam-ho", "q": "A lot of people see my work and say, “Your work reminds me of Karel Martens.” And it’s intentional.", "cap": false, "frag": "Your work reminds me of Karel Martens"}, "m-archigram": {"slug": "liz-dorman", "q": "Archigram explored control (forced behavior by unchangeable buildings) vs. choice (spaces made of modules that adapt to the needs of the inhabitants). Sounds familiar in this new Era?", "cap": true, "frag": "Archigram explored control"}, "m-hockney": {"slug": "mihika-kapoor", "q": "The artists I love most use excessive color. David Hockney, Matisse.", "cap": false}, "m-pnw": {"slug": "quinten-farmer", "q": "The Tolan lore is essentially built around the Pacific Northwest, an archipelago of small islands with a temperate climate.", "cap": false}, "m-crayon": {"slug": "noah-kerner", "q": "“Every child is born an artist. The problem is how to remain one as we grow up.”", "cap": false, "frag": "Every child is born an artist"}, "m-rand": {"slug": "paul-jun", "q": "In 1941, Bill Bernbach, a copywriter, met Paul Rand, an art director and designer, at the Weintraub agency in Manhattan.", "cap": false}, "m-guitar": {"slug": "stephen-haney", "q": "I play guitar, and I just found this hand maker, Hansen Guitars in Denmark.", "cap": false}, "m-piano": {"slug": "nir-zicherman", "q": "I grew up playing, especially piano.", "cap": false}, "m-backstage": {"slug": "diego-segura", "q": "Every week I’d be handed a stack of books across fashion and design to read and learn from.", "cap": false}, "m-wave": {"slug": "ben-and-zubin-raindrop", "q": "Tsunami of capabilities", "cap": true, "frag": "Tsunami of capabilities"}, "m-subway": {"slug": "dylan-babbs", "q": "Another interesting one, our subway ads — the imagery is all AI generated.", "cap": false, "frag": "our subway ads"}, "m-orangerie": {"slug": "mihika-kapoor", "q": "I also love large scale, so the Monet paintings in the Musée de l’Orangerie, which make you feel like a dot.", "cap": false}, "m-turntable": {"slug": "noah-kerner", "q": "Noah Kerner is a New Yorker who started Give Kids Art, an art nonprofit for underserved children, used to DJ for celebrities like Jennifer Lopez.", "cap": true, "frag": "used to DJ for celebrities"}, "a-idea": {"slug": "adam-ho", "q": "I have eight of his books behind me.", "cap": false}, "a-gerstner": {"slug": "adam-ho", "q": "And Karl Gerstner, a Swiss design practitioner and an early pioneer of systematic design.", "cap": false}, "a-taxday": {"slug": "diego-segura", "q": "Terms-Eccles, his platform covering capital and culture, which also hosts an annual Tax Day party.", "cap": true, "frag": "which also hosts an annual Tax Day party"}, "a-stormking": {"slug": "diego-segura", "q": "COLLINS crew at Storm King, 2019", "cap": true, "frag": "COLLINS crew at Storm King"}, "a-alice": {"slug": "mihika-kapoor", "q": "And I love absurdism, so Alice in Wonderland has been very influential.", "cap": false}, "a-klara": {"slug": "quinten-farmer", "q": "One favorite is Klara and the Sun, which I highly recommend.", "cap": false, "frag": "One favorite is Klara and the Sun"}};</script>
   <script src="./assets/home.js"></script>
   <script src="./assets/topline.js"></script>
 </body>

diff --git a/interviews/steve-ruiz/index.html b/interviews/steve-ruiz/index.html
@@ -654,7 +654,7 @@
           </div>
           <div class="cc-plate is-portrait">
             <div class="cc-plate-tab"><span class="cc-plate-label">12 colors, 4 sizes</span></div>
-            <img class="cc-plate-img" src="images/style-panel.jpg" alt="The tldraw style panel: a grid of twelve color swatches, an opacity slider at 75 percent, fill and dash options, and four sizes from S to XL" width="326" height="594" loading="lazy" decoding="async" />
+            <img class="cc-plate-img" src="images/style-panel.jpg?v=2" alt="The tldraw style panel: a grid of twelve color swatches, an opacity slider, fill and dash options, and four sizes from S to XL" width="314" height="586" loading="lazy" decoding="async" />
           </div>
           <div id="tldraw-offline" class="scroll-anchor"></div>
           <div class="cc-qa">
